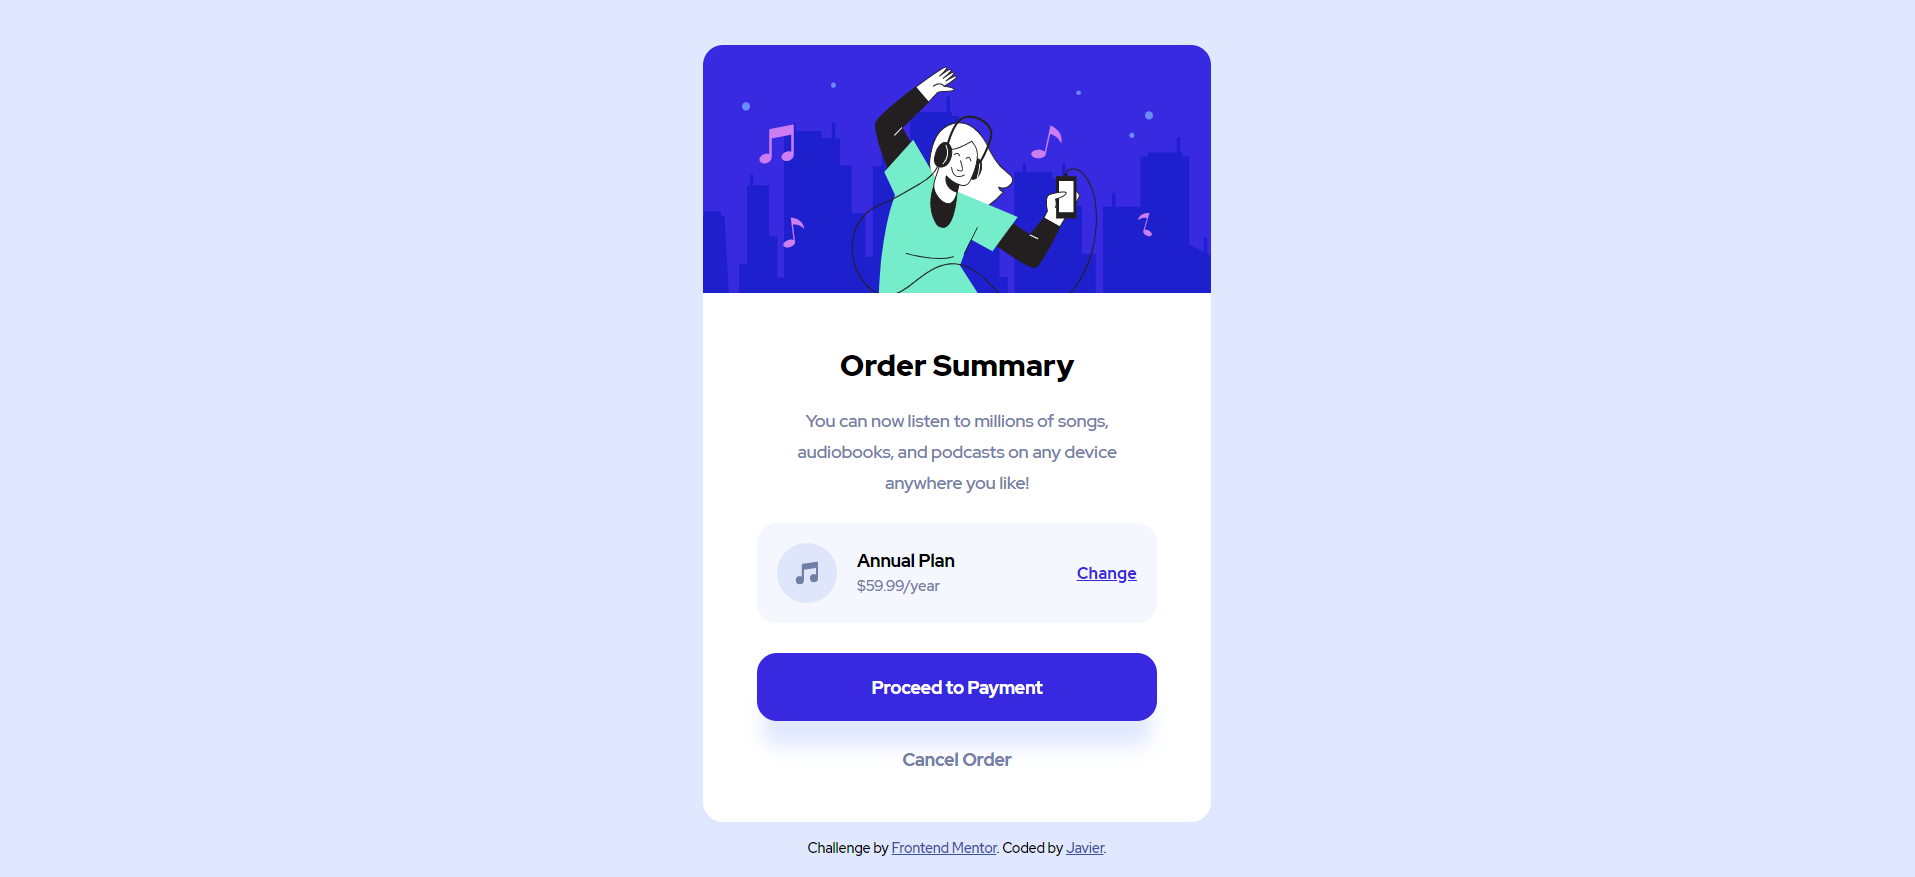
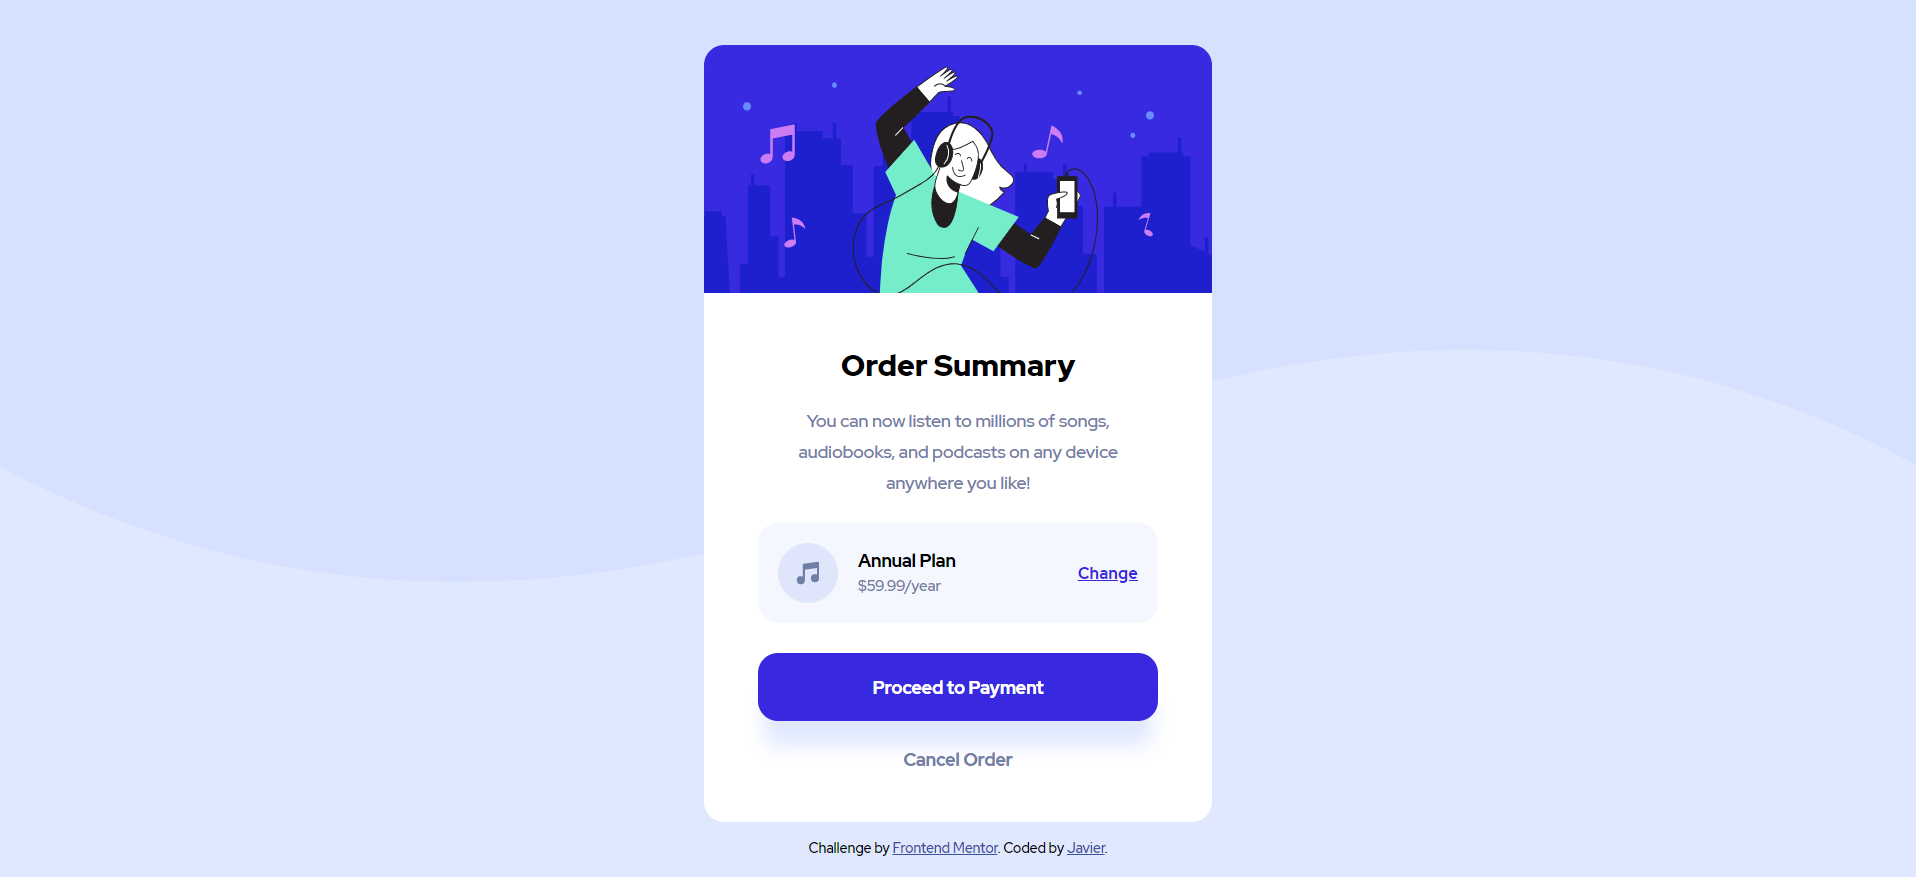
added background and fixed bg issue

diff --git a/styles/main.css b/styles/main.css
@@ -255,6 +255,16 @@ table {
   color: #000;
 }
 
+.attribution {
+  margin-top: 1rem;
+  font-size: 11px;
+  text-align: center;
+}
+
+.attribution a {
+  color: #3e52a3;
+}
+
 :root {
   -webkit-box-sizing: border-box;
           box-sizing: border-box;
@@ -265,6 +275,7 @@ body {
   font-family: "Red Hat Display", ns-serif;
   background-color: #e0e8ff;
   height: 100vh;
+  width: 100vw;
   position: relative;
   display: -webkit-box;
   display: -ms-flexbox;
@@ -287,14 +298,14 @@ body::before {
   top: 0;
   left: 0;
   background: url(../images/pattern-background-mobile.svg) no-repeat top;
-  width: 100%;
+  width: 100vw;
   height: 100%;
   z-index: -1;
 }
 
 @media (min-width: 376px) {
   body::before {
-    background: url(../images/pattern-background-desktop.svg) no-repeat top;
+    background: url(../images/pattern-background-desktop.svg) no-repeat top/100%;
   }
 }
 

diff --git a/scss/main.scss b/scss/main.scss
@@ -3,6 +3,7 @@
 @import "content"; // Hero part of the card
 @import "price-box"; // Description of the subscription plan
 @import "buttons"; // Buttons at the bottom
+@import "attribution";
 
 :root {
   box-sizing: border-box;
@@ -13,6 +14,7 @@ body {
   font-family: "Red Hat Display", ns-serif;
   background-color: $pale-blue;
   height: 100vh;
+  width: 100vw;
   position: relative;
   @include flex(column);
   justify-content: center;
@@ -24,12 +26,13 @@ body {
     top: 0;
     left: 0;
     background: url(../images/pattern-background-mobile.svg) no-repeat top;
-    width: 100%;
+    width: 100vw;
     height: 100%;
     z-index: -1;
 
     @media (min-width: 376px) {
-      background: url(../images/pattern-background-desktop.svg) no-repeat top;
+      background: url(../images/pattern-background-desktop.svg) no-repeat
+        top/100%;
     }
   }
 }

diff --git a/index.html b/index.html
@@ -12,19 +12,7 @@
       href="./images/favicon-32x32.png"
     />
     <link rel="stylesheet" href="styles/main.css" />
-
     <title>Order summary card</title>
-    <!-- Feel free to remove these styles or customise in your own stylesheet 👍 -->
-    <style>
-      .attribution {
-        margin-top: 1rem;
-        font-size: 11px;
-        text-align: center;
-      }
-      .attribution a {
-        color: hsl(228, 45%, 44%);
-      }
-    </style>
   </head>
   <body>
     <main id="card">

diff --git a/scss/_attribution.scss b/scss/_attribution.scss
@@ -1,0 +1,8 @@
+.attribution {
+  margin-top: 1rem;
+  font-size: 11px;
+  text-align: center;
+}
+.attribution a {
+  color: hsl(228, 45%, 44%);
+}
